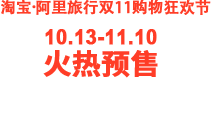
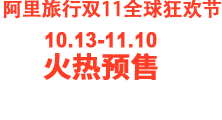
采购商广告位图片修改

Changed region(s): [[0.1981, 0.2328, 0.7642, 0.6724], [0.0, 0.0, 1.0, 0.1552]]

diff --git a/采购商/登陆注册/常见问题新.html b/采购商/登陆注册/常见问题新.html
@@ -74,45 +74,166 @@
         </div>
 
         <div class="us-body">
-            <div class="sc-ticket">
-                    <h3><span>Q:</span>什么是单程票、往返票、联程票？</h3>               
-                        <div>
-                            <em class="sc-ticket_em">A：</em>
-                            <span>单程票：指点到点去程票。</span>
-                        </div>
-                        <p>往返票：指点到点来回程票。</p>
-                        <p>联程票：始发地到目的地之间经另一个或几个机场中转，含有两个（及以上）乘机联、使用两个（及以上）不同航班号的航班抵达目的地的机票。如：从呼和浩特到三亚，中间从北京中转。购买的从呼和浩特到北京、北京再到三亚的机票就是联程机票。</p>
-             </div>
-             
-            <div class="sc-ticket">
-                    <h3><span>Q:</span>什么是电子机票，我如何使用它？</h3>               
-                        <div>
-                            <em class="sc-ticket_em">A：</em>
-                            <span>电子机票是普通纸质机票的电子形式，电子机票将票面信息存储在订座系统中，可以像纸票一样执行出票、作废、退票、换、改转签等操作。目前，它作为世界上最先进的客票形式，依托现代信息技术，实现无纸化、电子化的订票、结帐和办理乘机手续等全过程，给旅客带来诸多便利。</span>
-                        </div>
-          </div>
-          
-           <div class="sc-ticket">
-                    <h3><span>Q:</span>购买电子机票，到机场后办理登机需要什么凭证？</h3>               
-                        <div>
-                            <em class="sc-ticket_em">A：</em>
-                            <span>到机场后只需要凭身份证或其他有效证件可以直接登机。（购买电子机票的乘客只需凭身份证或其他有效证件即可到机场的值机柜台办理登记手续。）</span>
-                        </div>
-          </div>
-
-                 <div class="sc-ticket" style="border:0">
-                    <h3><span>Q:</span>什么是"不可签转、不可改期、不可退票"？ </h3>               
-                        <div>
-                            <em class="sc-ticket_em">A：</em>
-                            <span>不可签转：指出票后不能更改航空公司。</span>
-                        </div>
-                        <p>不可改期：指出票后不能更改出发或回程日期。</p>
-                        <p>不可退票：指出票后不能退回程票或全部机票。</p>
-                        <p>（不同航空公司对此问题均有具体规定，详情请咨询相关航空公司）</p>
-             </div>
+          <div class="us-first">
+              <div class="us-second">
+                  <div class="sc-ticket">
+                      <h3><span>Q:</span>机票订单填写时，需注意哪几点？</h3>               
+                      <div>
+                          <em class="sc-ticket_em">A：</em>
+                          <span>姓名及证件：必须用登机人证件姓名提交订单，如预订姓名与证件姓名不一致（如证件上是英文名，而提交订单用汉字名等）将无法登机，所造成的损失由预订人自行承担；预订国内机票必须提供乘机人有效身份证件号码及与证件一致的姓名。</span>
+                      </div>
+                      <p>联系方式：请正确、详细的输入您的联系信息并保持通讯畅通，以便机票预订员能及时地与您联系；如联系人、联系电话等资料有误，此订单将被视为无效订单作取消处理。</p>
+                      <p>重复订单：请勿提交重复订单（同一位登机人相同时间段两张以上的机票订单），如提交重复订单导致了重复出票，所产生的退票损失将由预订人全部承担。</p>
+                  </div>
+              </div>
+              <div class="us-second">
+                  <div class="sc-ticket">
+                      <h3><span>Q:</span>如果要取消或修改机票预订，该如何进行？</h3>               
+                      <div>
+                          <em class="sc-ticket_em">A：</em>
+                          <span>您可以致电天地行客服提出您的需求，对于还未出票的订单进行取消订单或修改机票信息不收取费用；已经出票的订单要求取消或修改机票信息会根据各航空公司的规定收取不同的退票或改签费用。</span>
+                      </div>
+                  </div>
+              </div> 
+              <div class="us-second">
+                  <div class="sc-ticket">
+                      <h3><span>Q:</span>什么是电子机票，如何使用？</h3>               
+                      <div>
+                          <em class="sc-ticket_em">A：</em>
+                          <span>电子机票是普通纸质机票的电子形式，电子机票将票面信息存储在订座系统中，可以像纸票一样执行出票、作废、退票、换、改转签等操作。</span>
+                      </div>
+                  </div>
+                   
+                  <div class="sc-ticket">
+                      <h3><span>Q:</span>已购买电子机票，到机场后办理登机需要什么凭证？</h3>               
+                      <div>
+                          <em class="sc-ticket_em">A：</em>
+                          <span>已购买电子机票的乘客只需凭身份证或其他有效证件即可到机场的值机柜台办理登记手续。</span>
+                      </div>
+                  </div>
+                                
+                  <div class="sc-ticket">
+                      <h3><span>Q:</span>什么是改签？</h3>               
+                      <div>
+                          <em class="sc-ticket_em">A：</em>
+                          <span>改签包括两种：更改和签转。</span>
+                      </div>
+                      <p>更改又称改期，是指客人的行程不变，承运的航空公司不变的情况下的更改。更改分为两种：同等舱位更改和升舱。同等舱位更改是指所更改的航班的航空公司和舱位都相同；升舱是指所更改的航空公司相同，但所改的舱位折扣高于原订舱位的折扣。一般情况下同等舱位更改航空公司不收取手续费；升舱一般情况下航空公司都会要求补足差价。</p>
+                      <p>签转是指不同航空公司之间签转。签转只适用于全价票的客人，折扣票不可以签转。签转的两个航空公司之间必须有协议，同意两个航空公司的客人进行签转，反之也是不可以签转。改签具体操作以各航空公司规定执行。</p>
+                  </div>
+                  
+                  <div class="sc-ticket" style="border:0">
+                      <h3><span>Q:</span>电子机票如何退票？</h3>               
+                      <div>
+                          <em class="sc-ticket_em">A：</em>
+                          <span>电子机票未使用且行程单未打印时，可按航空公司规定办理退票。若已打印行程单，需凭行程单办理。</span>
+                      </div>
+                  </div>
+                  <div class="sc-ticket" style="border:0">
+                      <h3><span>Q:</span>退票后款项何时返还？</h3>               
+                      <div>
+                          <em class="sc-ticket_em">A：</em>
+                          <span>票款将在航空公司审核完成后，7-15个工作日按原路径退回您支付时使用的银行卡中。</span>
+                      </div>
+                  </div>
+                  <div class="sc-ticket" style="border:0">
+                      <h3><span>Q:</span>机票已出票，是否可以更换乘机人姓名？</h3>               
+                      <div>
+                          <em class="sc-ticket_em">A：</em>
+                          <span>机票仅限乘客本人使用，出票后无法换用其他姓名登机。</span>
+                      </div>
+                  </div>
+                  <div class="sc-ticket" style="border:0">
+                      <h3><span>Q:</span>如何开具发票？</h3>               
+                      <div>
+                          <em class="sc-ticket_em">A：</em>
+                          <span>国内电子机票以行程单作为报销凭证；国际电子机票可联系客服申请开具发票。</span>
+                      </div>
+                  </div>
+              </div>   
+              <div class="us-second">
+                  <div class="sc-ticket">
+                      <h3><span>Q:</span>机场办理登机时间是多久？</h3>               
+                      <div>
+                          <em class="sc-ticket_em">A：</em>
+                          <span>国内航班旅客应在航班起飞前至少 30 分钟按规定办妥乘机手续。</span>
+                      </div>
+                      <p>国际航班一般须提前2－3小时到达机场办理登机手续，航班起飞前1小时停止办理。（具体每个航空公司办理登机截止时间各有所不同，详情可致电相关航空公司确认。）</p>
+                      <p>购买联程机票的旅客须保证转机衔接时间不少于 3 小时。</p>
+                      <p>如遇台风、暴雨、安检等原因，请尽可能提前到达机场。</p>
+                  </div>
+                   
+                  <div class="sc-ticket">
+                      <h3><span>Q:</span>孕妇是否可以乘坐飞机？</h3>               
+                      <div>
+                          <em class="sc-ticket_em">A：</em>
+                          <span>怀孕不足8个月（32周）的健康孕妇，可正常乘机；</span>
+                      </div>
+                      <p>怀孕超过8个月（32周），不足9个月（36周）的健康孕妇需要乘机，应在乘机前72小时内提供省级以上医疗单位盖章的《诊断证明书》，经航空公司同意后方可购票乘机；</p>
+                      <p>怀孕超过9个月（36周）的孕妇不接受购票乘机。</p>
+                      <p>温馨提示：因每一个机场的安检不一样，建议您咨询当地机场安检确认，以便顺利乘机。</p>
+                  </div>
                 
-             </div>
-             </main>
+                  <div class="sc-ticket">
+                      <h3><span>Q:</span>1米高的小孩是否需要买机票？</h3>               
+                      <div>
+                          <em class="sc-ticket_em">A：</em>
+                          <span>机票按年龄购买，14天-2周岁生日前一天请购买婴儿票，2-12周岁生日前一天请购买儿童票。</span>
+                      </div>
+                  </div>
+
+                  <div class="sc-ticket" style="border:0">
+                      <h3><span>Q:</span>婴儿、儿童没有身份证怎么办理登机手续？</h3>               
+                      <div>
+                          <em class="sc-ticket_em">A：</em>
+                          <span>可凭户口簿、护照、出生证（仅限婴儿）、独生子女证原件（各机场规定不同，详细请咨询机场问讯）登机。</span>
+                      </div>
+                  </div>
+                  <div class="sc-ticket" style="border:0">
+                      <h3><span>Q:</span>70岁以上老人可以购买机票并乘机吗？</h3>               
+                      <div>
+                          <em class="sc-ticket_em">A：</em>
+                          <span>可以。不过对于身体状况欠佳的老人，建议乘机前与相应的航空公司客服咨询相关规定，以保障您的出行。</span>
+                      </div>
+                  </div>
+                  <div class="sc-ticket" style="border:0">
+                      <h3><span>Q:</span>行李托运有哪些手续？</h3>               
+                      <div>
+                          <em class="sc-ticket_em">A：</em>
+                          <span>旅客必须凭有效客票托运行李。承运人应在客票及行李票上注明托运行李的件数和重量。 承运人一般应在航班离站当日办理乘机手续时收运行李；如团体旅客的行李过多，或因其他原因需要提前托运时，可和旅客约定时间、地点托运。</span>
+                      </div> 
+                      <p>承运人对旅客托运的每件行李应拴挂行李牌，并将其中的识别联交旅客。经承运人同意的自理行李，应与托运行李合并计重后，交由旅客带入客舱自行照管，并在行李上拴挂自理行李牌。</p>
+                      <p>不属行李的物品，应按货物托运，不能作为行李托运。</p>
+                  </div>
+                  <div class="sc-ticket" style="border:0">
+                      <h3><span>Q:</span>国内旅客的免费行李额是多少？国际旅客的免费行李额是多少？</h3>               
+                      <div>
+                          <em class="sc-ticket_em">A：</em>
+                          <span>国内: 持成人票或儿童票的旅客，每人免费托运行李的限额为：头等舱40公斤，公务舱30公斤，经济舱20公斤。持婴儿票的旅客的免费行李额具体以各航空公司规定为准。</span>
+                      </div> 
+                      <p>国际: 持成人票或儿童票的旅客，按各航空公司不同的舱位规定，一般情况下，头等舱40公斤，公务舱30公斤，经济舱20公斤。持婴儿票的旅客无免费行李额。</p>
+                  </div>
+                  <div class="sc-ticket" style="border:0">
+                      <h3><span>Q:</span>充电宝是否可以带上飞机？</h3>               
+                      <div>
+                          <em class="sc-ticket_em">A：</em>
+                          <span>充电宝只能在手提行李中携带或随身携带，严禁在托运行李中携带。充电宝额定能量不超过100Wh，无需航空公司批准；额定能量超过100Wh但不超过160Wh，经航空公司批准后方可携带，但每名旅客不得携带超过两个充电宝；严禁携带额定能量超过160Wh的充电宝；严禁携带未标明额定能量同时也未能通过标注的其他参数计算得出额定能量的充电宝。不得在飞行过程中使用充电宝给电子设备充电。对于有启动开关的充电宝，在飞行过程中应始终关闭充电宝。</span>
+                      </div>
+                  </div>
+                  <div class="sc-ticket" style="border:0">
+                      <h3><span>Q:</span>什么是“不可签转、不可改期、不可退票”？</h3>               
+                      <div>
+                          <em class="sc-ticket_em">A：</em>
+                          <span>不可签转：出票后不能更改航空公司。</span>
+                      </div> 
+                      <p>不可改期：出票后不能更改出发或回程日期。</p>
+                      <p>不可退票：出票后不能退回程票或全部机票。</p>
+                      <p>（不同航空公司对此问题均有具体规定，详情请咨询相关航空公司）</p>
+                  </div>
+              </div>   
+          </div>
+      </div>
+    </main>
 
 
          </div>

diff --git a/static/css/store_v3/store.css b/static/css/store_v3/store.css
@@ -2868,12 +2868,12 @@ a.progressCancel {
 .ads11{
     /* width:210px;
     height:102px; */
-    width:212px;
-    height:116px;
+    width:222px;
+    height:120px;
     float:left;
     background:url(../../images/ads11-new.png) no-repeat;
     /* margin:50px 0 0 25px; */
-    margin:40px 0 0 28px;
+    margin:35px 0 0 28px;
 }
 .adswrapper .QRcode{
     margin:20px 15px 0 0;
